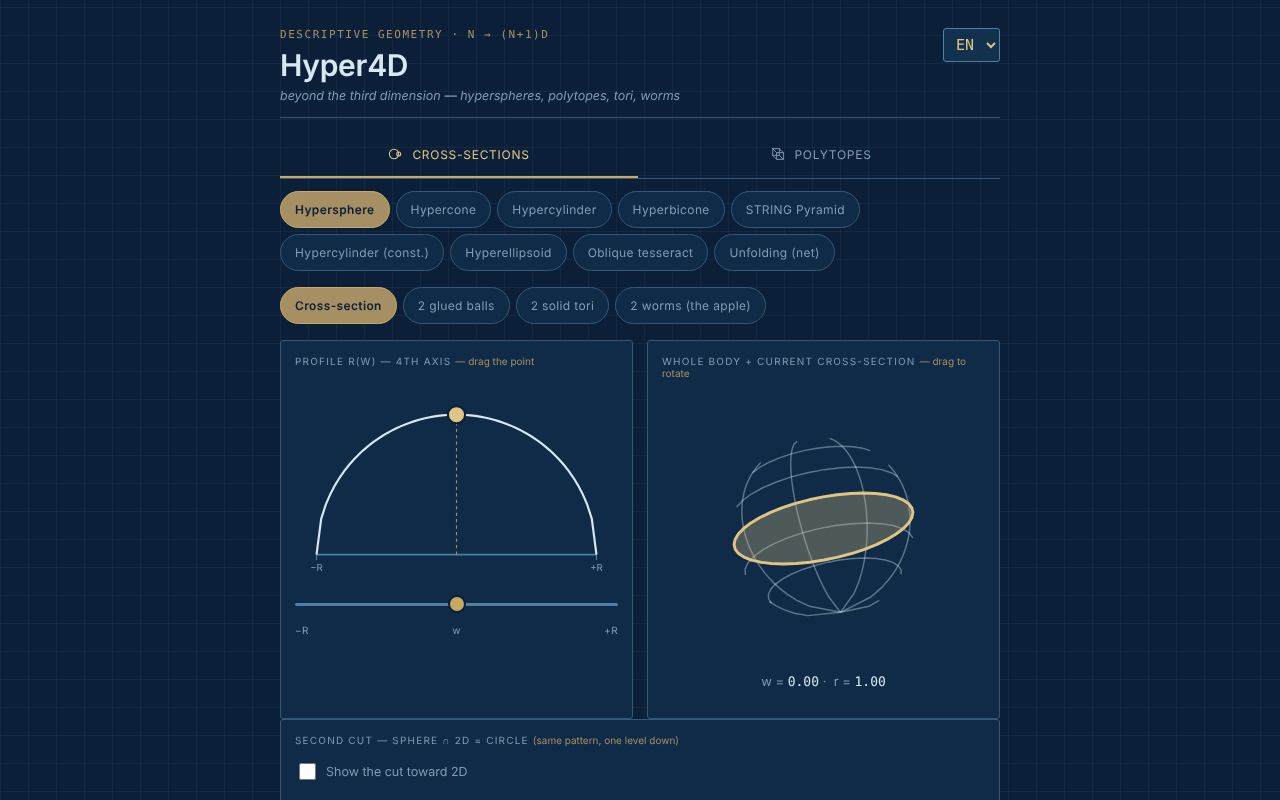
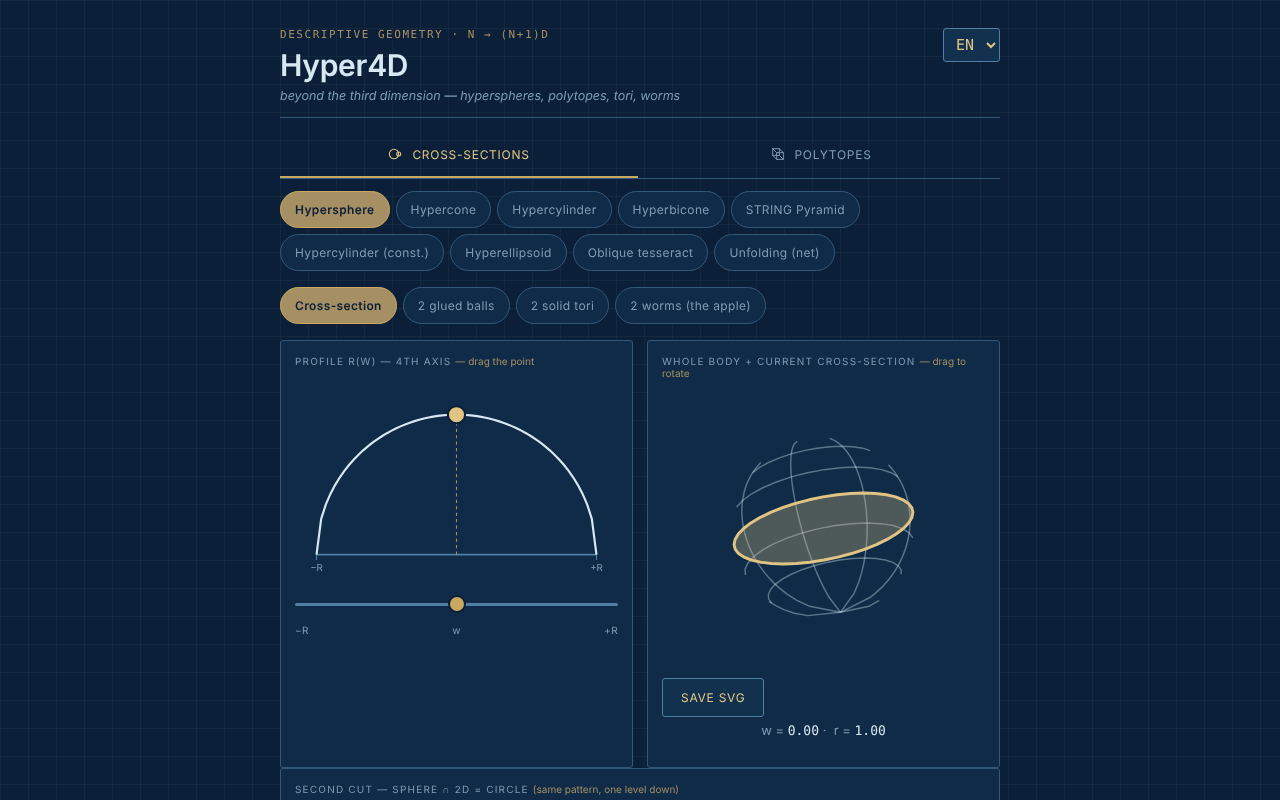
Runda 7 (11 octombrie 2026): defecte noi reparate, hash CSP, îmbunătățiri
Claude-Session: https://claude.ai/code/session_01D2sCEb3hy3nutYexhUfQFs

diff --git a/index.html b/index.html
@@ -3,7 +3,7 @@
 <head>
 <meta charset="UTF-8">
 <meta name="viewport" content="width=device-width, initial-scale=1.0">
-<meta http-equiv="Content-Security-Policy" content="default-src 'none'; script-src 'self'  'sha256-6NrOwltZH/fzCoYi2219jxKgPO2VNqQ4ICnI+9/0sgY='; style-src 'unsafe-inline'; img-src data: blob:; font-src data:; connect-src 'none'; object-src 'none'; base-uri 'none'; form-action 'none'">
+<meta http-equiv="Content-Security-Policy" content="default-src 'none'; script-src 'self' 'sha256-3Aya8Z1ZNcM5UOi3AILQLZvmcSfeqJ2JqKoHWSOrwtM='; style-src 'unsafe-inline'; img-src data: blob:; font-src data:; connect-src 'none'; object-src 'none'; base-uri 'none'; form-action 'none'">
 <title>Hyper4D</title>
 <style>
   :root {
@@ -167,6 +167,7 @@
     footer.note { margin-top: 8px; font-size: 10px; }
   }
   @media (prefers-reduced-motion: reduce) { * { transition: none !important; } }
+.sr-only{position:absolute;width:1px;height:1px;overflow:hidden;clip:rect(0 0 0 0);white-space:nowrap}
 </style>
 </head>
 <body>
@@ -267,6 +268,7 @@
             <g id="curve-mesh"></g>
             <polygon id="curve-ring" fill="rgba(224,196,131,0.30)" stroke="#e0c483" stroke-width="2" stroke-linejoin="round"/>
           </svg>
+          <div class="controls-row"><button class="playbtn" id="curve-save-svg" type="button" data-i18n="btn.saveSvg">Save SVG</button></div>
           <p class="formula" style="text-align:center;margin-top:4px;">
             w = <span class="mono" id="curve-w-readout">0.00</span>&nbsp;·&nbsp;
             r = <span class="mono" id="curve-r-readout">1.00</span>
@@ -445,7 +447,7 @@
     </div>
     <div class="card">
       <p class="card-label"><span data-i18n="card.rotProjection">Rotating 4D → 3D → 2D projection</span> <span class="drag-hint" data-i18n="hint.dragRotate">— drag to rotate</span></p>
-      <svg class="diagram orbitable" id="poly-svg" viewBox="0 0 400 380" aria-hidden="true"></svg>
+      <svg class="diagram orbitable" id="poly-svg" viewBox="0 0 400 380" role="img" aria-label="Rotating 4D projection diagram"></svg>
       <div class="controls-row">
         <button class="playbtn" id="poly-play" aria-pressed="true">
           <svg viewBox="0 0 24 24" width="12" height="12" fill="currentColor"><rect x="6" y="5" width="4" height="14"/><rect x="14" y="5" width="4" height="14"/></svg>
@@ -455,6 +457,7 @@
           <div class="slider-caption"><span data-i18n="label.speed">Speed</span><span id="poly-speed-readout">1.0×</span></div>
           <input type="range" id="poly-speed" min="0" max="300" value="100" step="1" aria-label="speed" data-i18n-attr="aria-label:aria.speedSlider">
         </div>
+        <button class="playbtn" id="poly-save-svg" type="button" data-i18n="btn.saveSvg">Save SVG</button>
         <label class="face-toggle" id="poly-face-label">
           <input type="checkbox" id="poly-faces-toggle"> <span data-i18n="toggle.solidFaces">Solid faces</span>
         </label>
@@ -468,6 +471,7 @@
     <p class="formula" data-i18n="text.doubleRotation">Double rotation (4D), simultaneously in the <span class="mono">XW</span> and <span class="mono">YZ</span> planes — covers all 4 dimensions with no overlap. Drag with mouse/finger to rotate the 3D viewing angle, independent of the 4D rotation. Brighter points and edges = closer along the 4th axis.<span class="mono">XW</span> și <span class="mono">YZ</span> — acoperă toate cele 4 dimensiuni fără suprapunere. Trage cu mouse-ul/degetul ca să rotești unghiul de vizualizare 3D, independent de rotația 4D. Puncte și muchii mai strălucitoare = mai aproape pe axa a 4-a.</p>
     <p class="formula" id="poly-info-text">—</p>
     <p class="formula" id="poly-euler"></p>
+    <p class="sr-only" id="svg-status" role="status" aria-live="polite"></p>
     <div class="cartus mono">
       <div class="cartus-cell"><p class="cartus-label" data-i18n="cart.body">Body</p><p class="cartus-value" id="cartus-poly-corp">8-cell</p></div>
       <div class="cartus-cell"><p class="cartus-label" data-i18n="cart.vef">V·M·F</p><p class="cartus-value" id="cartus-poly-vm">16·32·24</p></div>
@@ -559,6 +563,7 @@ ui: {
 "hint.samePattern":"(același tipar, un nivel mai jos)",
 "cap.polA":"pol A","cap.polB":"pol B","cap.equator":"ecuator","cap.aroundHole":"în jurul găurii","cap.aroundTube":"în jurul tubului",
 "toggle.solidFaces":"Fețe pline","toggle.mystery":"Mod mister","toggle.showSecondCut":"Arată tăietura spre 2D",
+"btn.saveSvg":"Salvează SVG","aria.polyDiagram":"Diagrama proiecției rotative 4D → 3D → 2D: {n}, V·M·F {vm}. Unghiurile de rotație sunt în cartușul de mai jos.","toast.svgSaved":"SVG salvat.",
 "label.howManyWorms":"Câți viermi?","label.speed":"Viteză","btn.pause":"Pauză","btn.play":"Redă",
 "cart.body":"Corp","cart.formula":"Formulă","cart.boundary":"Graniță","cart.currentW":"w curent","cart.visibleNow":"Vizibili acum",
 "cart.mode":"Mod","cart.worms":"Viermi","cart.zone":"Zonă","cart.hypervolume":"Hipervolum V₄","cart.vef":"V·M·F","text.euler":"Verificare Euler: vârfuri − muchii + fețe − celule","text.eulerNote":"Pentru orice politop convex 4D rezultatul este 0; vârfurile și muchiile sunt numărate din geometria desenată.","text.eulerDuo":"În cartuș, F numără doar fețele pătrate; aici sunt incluse și fețele poligonale ale celor două baze (P și Q).","text.keys":"Taste: P sau Spațiu = pauză/redare · ← → = forma anterioară/următoare (la Politopi)",
@@ -650,6 +655,7 @@ ui: {
 "hint.samePattern":"(same pattern, one level down)",
 "cap.polA":"pole A","cap.polB":"pole B","cap.equator":"equator","cap.aroundHole":"around the hole","cap.aroundTube":"around the tube",
 "toggle.solidFaces":"Solid faces","toggle.mystery":"Mystery mode","toggle.showSecondCut":"Show the cut toward 2D",
+"btn.saveSvg":"Save SVG","aria.polyDiagram":"Rotating 4D → 3D → 2D projection diagram: {n}, V·E·F {vm}. The rotation angles are listed in the readout below.","toast.svgSaved":"SVG saved.",
 "label.howManyWorms":"How many worms?","label.speed":"Speed","btn.pause":"Pause","btn.play":"Play",
 "cart.body":"Body","cart.formula":"Formula","cart.boundary":"Boundary","cart.currentW":"current w","cart.visibleNow":"Visible now",
 "cart.mode":"Mode","cart.worms":"Worms","cart.zone":"Zone","cart.hypervolume":"Hypervolume V₄","cart.vef":"V·E·F","text.euler":"Euler check: vertices − edges + faces − cells","text.eulerNote":"For every convex 4D polytope the result is 0; vertices and edges are counted from the drawn geometry.","text.eulerDuo":"The cartouche's F counts only the square faces; here the polygonal faces of the P and Q bases are included too.","text.keys":"Keys: P or Space = pause/play · ← → = previous/next shape (Polytopes)",
@@ -742,6 +748,7 @@ ui: {
 "hint.samePattern":"(même schéma, un niveau plus bas)",
 "cap.polA":"pôle A","cap.polB":"pôle B","cap.equator":"équateur","cap.aroundHole":"autour du trou","cap.aroundTube":"autour du tube",
 "toggle.solidFaces":"Faces pleines","toggle.mystery":"Mode mystère","toggle.showSecondCut":"Montrer la coupe vers 2D",
+"btn.saveSvg":"Enregistrer en SVG","aria.polyDiagram":"Diagramme de la projection rotative 4D → 3D → 2D : {n}, S·A·F {vm}. Les angles de rotation figurent dans le cartouche ci-dessous.","toast.svgSaved":"SVG enregistré.",
 "label.howManyWorms":"Combien de vers ?","label.speed":"Vitesse","btn.pause":"Pause","btn.play":"Lire",
 "cart.body":"Corps","cart.formula":"Formule","cart.boundary":"Frontière","cart.currentW":"w actuel","cart.visibleNow":"Visibles maintenant",
 "cart.mode":"Mode","cart.worms":"Vers","cart.zone":"Zone","cart.hypervolume":"Hypervolume V₄","cart.vef":"S·A·F","text.euler":"Vérification d'Euler : sommets − arêtes + faces − cellules","text.eulerNote":"Pour tout polytope convexe 4D, le résultat est 0 ; sommets et arêtes sont comptés à partir de la géométrie dessinée.","text.eulerDuo":"Dans le cartouche, F ne compte que les faces carrées ; ici, les faces polygonales des bases P et Q sont incluses.","text.keys":"Touches : P ou Espace = pause/lecture · ← → = forme précédente/suivante (Polytopes)",
@@ -834,6 +841,7 @@ ui: {
 "hint.samePattern":"(stesso schema, un livello più in basso)",
 "cap.polA":"polo A","cap.polB":"polo B","cap.equator":"equatore","cap.aroundHole":"intorno al buco","cap.aroundTube":"intorno al tubo",
 "toggle.solidFaces":"Facce piene","toggle.mystery":"Modalità mistero","toggle.showSecondCut":"Mostra il taglio verso 2D",
+"btn.saveSvg":"Salva SVG","aria.polyDiagram":"Diagramma della proiezione rotante 4D → 3D → 2D: {n}, V·S·F {vm}. Gli angoli di rotazione sono nel riquadro sottostante.","toast.svgSaved":"SVG salvato.",
 "label.howManyWorms":"Quanti vermi?","label.speed":"Velocità","btn.pause":"Pausa","btn.play":"Riproduci",
 "cart.body":"Corpo","cart.formula":"Formula","cart.boundary":"Confine","cart.currentW":"w attuale","cart.visibleNow":"Visibili ora",
 "cart.mode":"Modalità","cart.worms":"Vermi","cart.zone":"Zona","cart.hypervolume":"Ipervolume V₄","cart.vef":"V·S·F","text.euler":"Verifica di Euler: vertici − spigoli + facce − celle","text.eulerNote":"Per ogni politopo convesso 4D il risultato è 0; vertici e spigoli sono contati dalla geometria disegnata.","text.eulerDuo":"Nel cartiglio F conta solo le facce quadrate; qui sono incluse anche le facce poligonali delle basi P e Q.","text.keys":"Tasti: P o Spazio = pausa/riproduci · ← → = forma precedente/successiva (Politopi)",
@@ -926,6 +934,7 @@ ui: {
 "hint.samePattern":"(mismo patrón, un nivel más abajo)",
 "cap.polA":"polo A","cap.polB":"polo B","cap.equator":"ecuador","cap.aroundHole":"alrededor del agujero","cap.aroundTube":"alrededor del tubo",
 "toggle.solidFaces":"Caras sólidas","toggle.mystery":"Modo misterio","toggle.showSecondCut":"Mostrar el corte hacia 2D",
+"btn.saveSvg":"Guardar SVG","aria.polyDiagram":"Diagrama de la proyección rotatoria 4D → 3D → 2D: {n}, V·A·C {vm}. Los ángulos de rotación están en el recuadro inferior.","toast.svgSaved":"SVG guardado.",
 "label.howManyWorms":"¿Cuántos gusanos?","label.speed":"Velocidad","btn.pause":"Pausa","btn.play":"Reproducir",
 "cart.body":"Cuerpo","cart.formula":"Fórmula","cart.boundary":"Frontera","cart.currentW":"w actual","cart.visibleNow":"Visibles ahora",
 "cart.mode":"Modo","cart.worms":"Gusanos","cart.zone":"Zona","cart.hypervolume":"Hipervolumen V₄","cart.vef":"V·A·C","text.euler":"Comprobación de Euler: vértices − aristas + caras − celdas","text.eulerNote":"Para todo politopo convexo 4D el resultado es 0; los vértices y las aristas se cuentan a partir de la geometría dibujada.","text.eulerDuo":"En el cartucho, F cuenta solo las caras cuadradas; aquí se incluyen también las caras poligonales de las bases P y Q.","text.keys":"Teclas: P o Espacio = pausa/reproducir · ← → = forma anterior/siguiente (Politopos)",
@@ -1018,6 +1027,7 @@ ui: {
 "hint.samePattern":"(mesmo padrão, um nível mais abaixo)",
 "cap.polA":"polo A","cap.polB":"polo B","cap.equator":"equador","cap.aroundHole":"à volta do buraco","cap.aroundTube":"à volta do tubo",
 "toggle.solidFaces":"Faces sólidas","toggle.mystery":"Modo mistério","toggle.showSecondCut":"Mostrar o corte para 2D",
+"btn.saveSvg":"Guardar SVG","aria.polyDiagram":"Diagrama da projeção rotativa 4D → 3D → 2D: {n}, V·A·F {vm}. Os ângulos de rotação estão no quadro abaixo.","toast.svgSaved":"SVG guardado.",
 "label.howManyWorms":"Quantos vermes?","label.speed":"Velocidade","btn.pause":"Pausa","btn.play":"Reproduzir",
 "cart.body":"Corpo","cart.formula":"Fórmula","cart.boundary":"Fronteira","cart.currentW":"w atual","cart.visibleNow":"Visíveis agora",
 "cart.mode":"Modo","cart.worms":"Vermes","cart.zone":"Zona","cart.hypervolume":"Hipervolume V₄","cart.vef":"V·A·F","text.euler":"Verificação de Euler: vértices − arestas + faces − células","text.eulerNote":"Para qualquer politopo convexo 4D o resultado é 0; os vértices e as arestas são contados a partir da geometria desenhada.","text.eulerDuo":"No cartucho, F conta apenas as faces quadradas; aqui incluem-se também as faces poligonais das bases P e Q.","text.keys":"Teclas: P ou Espaço = pausa/reproduzir · ← → = forma anterior/seguinte (Politopos)",
@@ -1110,6 +1120,7 @@ ui: {
 "hint.samePattern":"(gleiches Muster, eine Ebene tiefer)",
 "cap.polA":"Pol A","cap.polB":"Pol B","cap.equator":"Äquator","cap.aroundHole":"um das Loch","cap.aroundTube":"um die Röhre",
 "toggle.solidFaces":"Volle Flächen","toggle.mystery":"Rätselmodus","toggle.showSecondCut":"Schnitt nach 2D zeigen",
+"btn.saveSvg":"SVG speichern","aria.polyDiagram":"Diagramm der rotierenden 4D → 3D → 2D-Projektion: {n}, E·K·F {vm}. Die Drehwinkel stehen im Feld darunter.","toast.svgSaved":"SVG gespeichert.",
 "label.howManyWorms":"Wie viele Würmer?","label.speed":"Geschwindigkeit","btn.pause":"Pause","btn.play":"Abspielen",
 "cart.body":"Körper","cart.formula":"Formel","cart.boundary":"Grenze","cart.currentW":"aktuelles w","cart.visibleNow":"Jetzt sichtbar",
 "cart.mode":"Modus","cart.worms":"Würmer","cart.zone":"Zone","cart.hypervolume":"Hypervolumen V₄","cart.vef":"E·K·F","text.euler":"Euler-Probe: Ecken − Kanten + Flächen − Zellen","text.eulerNote":"Für jedes konvexe 4D-Polytop ergibt sich 0; Ecken und Kanten werden aus der gezeichneten Geometrie gezählt.","text.eulerDuo":"Im Schriftfeld zählt F nur die quadratischen Flächen; hier sind auch die Polygonflächen der Basen P und Q enthalten.","text.keys":"Tasten: P oder Leertaste = Pause/Wiedergabe · ← → = vorherige/nächste Form (Polytope)",
@@ -1194,6 +1205,42 @@ star600:"Sternskelett (600v)",
     document.getElementById('lang-select').addEventListener('change', function (e) { applyLanguage(e.target.value); setHashPart('lang', e.target.value); });
   }
   applyLanguage(currentLang);
+
+
+  // ---- Export SVG: copiază stilurile calculate în atribute, ca fișierul să arate la fel în afara paginii ----
+  function exportSvgFile(svgEl, baseName) {
+    var clone = svgEl.cloneNode(true), vb = svgEl.getAttribute('viewBox').trim().split(/\s+/).map(Number);
+    var props = ['fill','fill-opacity','stroke','stroke-width','stroke-opacity','stroke-dasharray','stroke-linecap','stroke-linejoin','opacity','font-family','font-size','font-weight','text-anchor'];
+    var src = [svgEl].concat(Array.prototype.slice.call(svgEl.querySelectorAll('*')));
+    var dst = [clone].concat(Array.prototype.slice.call(clone.querySelectorAll('*')));
+    src.forEach(function (n, i) {
+      var cs = getComputedStyle(n), d = dst[i];
+      if (/^(defs|stop|radialGradient|linearGradient)$/.test(n.localName)) return;
+      props.forEach(function (p) {
+        var v = cs.getPropertyValue(p);
+        if (v) d.setAttribute(p, v.replace(/url\(["']?([^"')]+)["']?\)/g, 'url($1)'));
+      });
+      if (cs.display === 'none') d.setAttribute('display', 'none');
+    });
+    ['class','id','aria-label','role'].forEach(function (a) { clone.removeAttribute(a); });
+    clone.setAttribute('xmlns', 'http://www.w3.org/2000/svg');
+    clone.setAttribute('width', Math.round(vb[2] * 2)); clone.setAttribute('height', Math.round(vb[3] * 2));
+    var rect = document.createElementNS('http://www.w3.org/2000/svg', 'rect');
+    rect.setAttribute('x', vb[0]); rect.setAttribute('y', vb[1]); rect.setAttribute('width', vb[2]); rect.setAttribute('height', vb[3]);
+    rect.setAttribute('fill', getComputedStyle(document.body).backgroundColor);
+    clone.insertBefore(rect, clone.firstChild);
+    var blob = new Blob(['<?xml version="1.0" encoding="UTF-8"?>\n' + new XMLSerializer().serializeToString(clone)], { type: 'image/svg+xml' });
+    var a = document.createElement('a'); a.href = URL.createObjectURL(blob); a.download = baseName + '.svg';
+    document.body.appendChild(a); a.click(); a.remove(); setTimeout(function () { URL.revokeObjectURL(a.href); }, 1000);
+  }
+
+  (function () {
+    var b = document.getElementById('curve-save-svg');
+    if (b) b.addEventListener('click', function () {
+      exportSvgFile(document.getElementById('curve-render-svg'), 'hyper4d-sectiune');
+      var st = document.getElementById('svg-status'); if (st) st.textContent = (I18N[currentLang] || I18N.ro).ui['toast.svgSaved'];
+    });
+  })();
 
   function buildPath(points) {
     return points.map(function (p, i) { return (i === 0 ? 'M ' : 'L ') + p[0].toFixed(2) + ' ' + p[1].toFixed(2); }).join(' ');
@@ -2780,6 +2827,16 @@ star600:"Sternskelett (600v)",
         '. ' + dict['text.eulerNote'] + (duo ? ' ' + dict['text.eulerDuo'] : '');
     }
     var currentPolyKey = 'cell8';
+    function updatePolyLabel() {
+      var d = (I18N[currentLang] || I18N.ro).ui, def = POLY[currentPolyKey];
+      if (!def || !d['aria.polyDiagram']) return;
+      svg.setAttribute('aria-label', d['aria.polyDiagram'].replace('{n}', cartCorp.textContent).replace('{vm}', def.vm));
+    }
+    var saveBtn = document.getElementById('poly-save-svg');
+    if (saveBtn) saveBtn.addEventListener('click', function () {
+      exportSvgFile(svg, 'hyper4d-' + currentPolyKey);
+      var st = document.getElementById('svg-status'); if (st) st.textContent = (I18N[currentLang] || I18N.ro).ui['toast.svgSaved'];
+    });
     var currentTier = 'normal';
     function loadShape(key) {
       currentPolyKey = key;
@@ -2831,7 +2888,7 @@ star600:"Sternskelett (600v)",
       cartCorp.textContent = (I18N[currentLang] && I18N[currentLang].corp && I18N[currentLang].corp[currentPolyKey]) || def.corp;
       cartVM.textContent = def.vm;
       cartHV.textContent = def.hv || '—';
-      updateEuler();
+      updateEuler(); updatePolyLabel();
       infoText.textContent = getPolyInfoText(currentPolyKey, POLY[currentPolyKey]) + (tier === 'veryDense' ? ' ' + ((I18N[currentLang] || I18N.ro).ui['text.autopausedDense']) : '');
 
       if (faces.length === 0) {
@@ -3049,7 +3106,7 @@ star600:"Sternskelett (600v)",
       setPlaying(playing);
       infoText.textContent = getPolyInfoText(currentPolyKey, POLY[currentPolyKey]) + (currentTier === 'veryDense' ? ' ' + ((I18N[currentLang] || I18N.ro).ui['text.autopausedDense']) : '');
       cartCorp.textContent = (I18N[currentLang] && I18N[currentLang].corp && I18N[currentLang].corp[currentPolyKey]) || POLY[currentPolyKey].corp;
-      updateEuler();
+      updateEuler(); updatePolyLabel();
     });
   })(); } catch (e) { console.error('polytope init failed', e); }
 

diff --git a/README.md b/README.md
@@ -23,6 +23,8 @@ Hyper4D este o aplicație single-file (`index.html`, SVG + JavaScript, fără bi
 - Verificare Euler pentru politopi: `vârfuri − muchii + fețe − celule = 0`, cu vârfurile și muchiile numărate din geometria desenată (inclusiv pentru duoprisma personalizată P×Q); pentru duoprisme se numără și fețele poligonale ale bazelor, nu doar cele pătrate din cartuș. Nu se afișează pentru scheletul-stea.
 - Scurtături de tastatură la Politopi: `P` sau `Spațiu` = pauză/redare, `←` `→` = forma anterioară/următoare (indiciu afișat în pagină, în 7 limbi).
 - Rotire prin tragere cu mouse-ul, zoom cu rotița sau cu două degete.
+- Buton „Salvează SVG” (la Politopi și la „Corp întreg + secțiune curentă”): descarcă diagrama curentă ca fișier SVG autonom (stilurile calculate sunt copiate în atribute, cu fundalul aplicației), pentru lucrări sau prezentări; se face local, fără rețea.
+- Diagrama politopului are acum alternativă text (`role="img"` cu corp, V·M·F și trimitere la cartuș), în 7 limbi.
 - Interfață în 7 limbi: EN (implicit), RO, FR, IT, ES, PT, DE.
 - Starea (limbă, categorie, formă, vizualizare) se reflectă în hash-ul URL-ului, deci poate fi pusă la semn sau partajată.
 
@@ -47,6 +49,10 @@ Hyper4D este o aplicație single-file (`index.html`, SVG + JavaScript, fără bi
 Descarcă `index.html` și deschide-l în browser; funcționează complet fără internet (subsolul aplicației spune: „Offline tool, no external dependencies”).
 
 ## Istoric / Changelog
+
+### 11 octombrie 2026 (a treia intrare)
+- Salvare SVG pentru diagrama politopului și pentru corpul întreg + secțiune (7 limbi).
+- Diagrama proiecției rotative nu mai este `aria-hidden`: are descriere text (corp, V·M·F), actualizată la schimbarea formei sau a limbii.
 
 ### 11 octombrie 2026 (a doua intrare)
 - Verificare Euler (V − E + F − C = 0) pentru politopii convecși, scurtături de tastatură `P`/`Spațiu` și `←`/`→`, eticheta cartușului V·M·F tradusă în cele 7 limbi (în engleză „M” nu avea sens), traduceri noi în 7 limbi.
